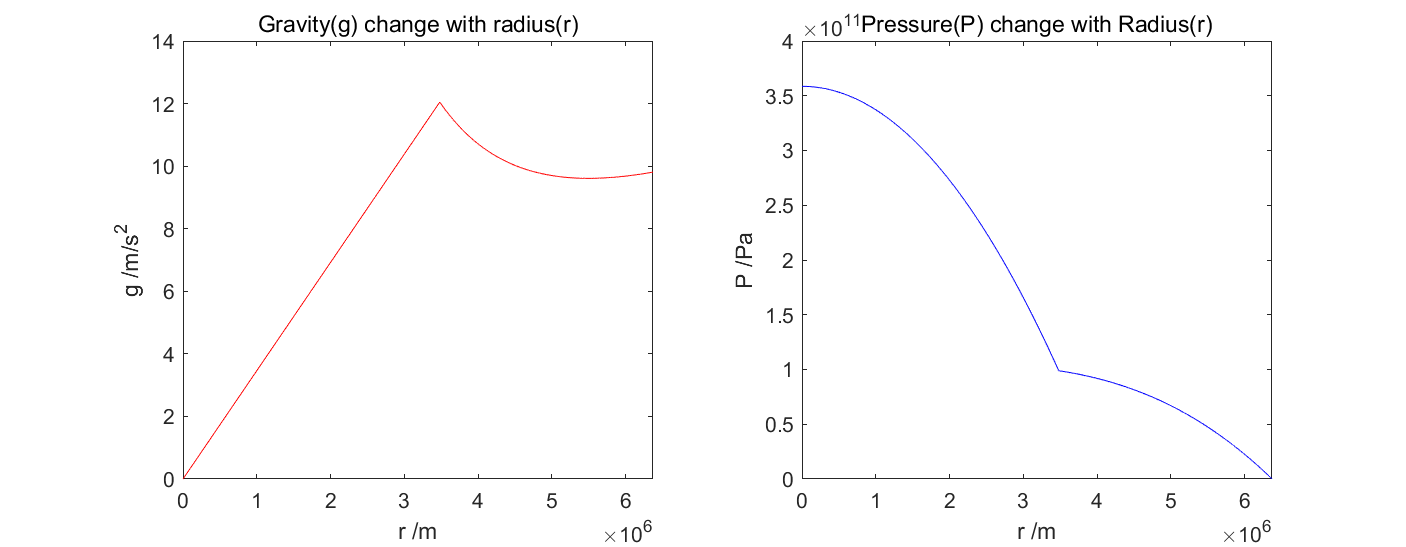
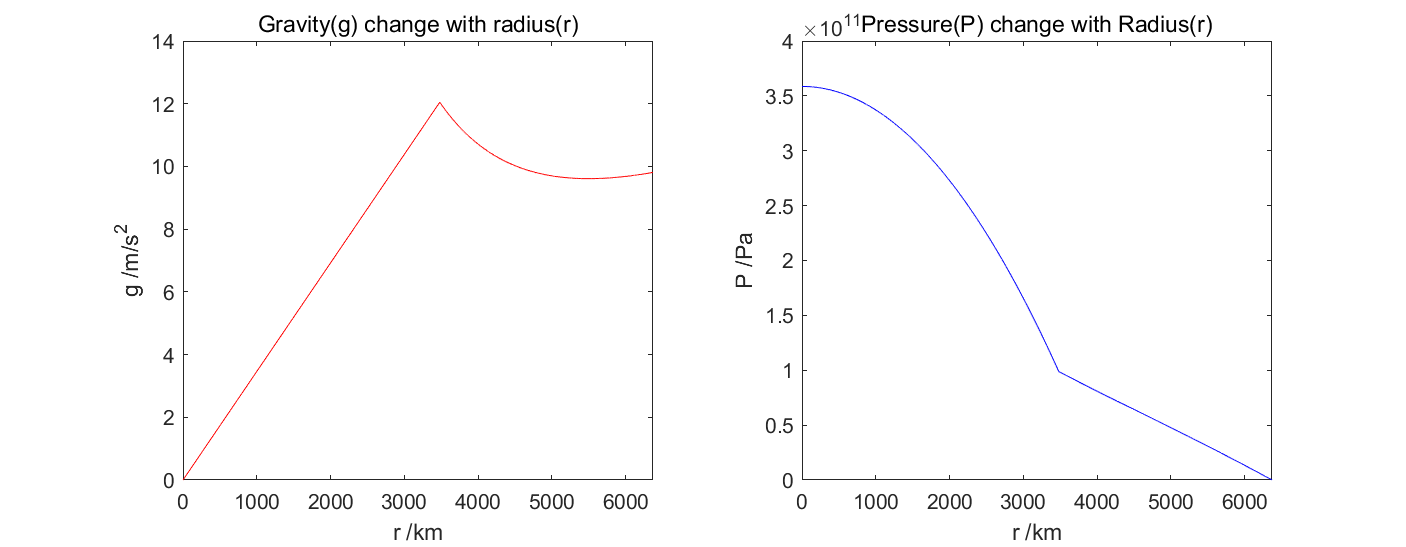
first commit for ESS5005

diff --git a/ESS5005_ComputationalSeismology/2D/Acou_FD_2D.m b/ESS5005_ComputationalSeismology/2D/Acou_FD_2D.m
@@ -1,0 +1,104 @@
+%% 2D Acoustic funtion by FD
+clear all
+%% parameter settings
+% grid paras
+WE = [-20000,20000];         % horizontal range left-right   /m
+Z =  20000;               % depth range  /m
+
+% physical property
+c_z = [334,1430];      % velocity km/s. 0.344--air; 1.430--water; 1.500 sea
+z_layer = 20;          % layer depth /km
+ 
+% iteration information
+dx = 10;                     % spatial step
+flag_eps = 1;               % spatial-time stability control number
+dt = flag_eps*dx/max(c_z);  % time step
+N_t = 9000;                   % the number of iteration times for time   
+N_x = (WE(2)- WE(1))/dx+1;  % the number of iteration times for X
+N_z = Z/dx + 1;
+
+% source parameters
+N_source = 2;
+time_s = [20,25;0,5];            % the occuring time of the source, start and end if needed
+amp_s =  [1;2];                 % the amplitude of the source
+loc_s = [-10000,0;10000,0];       % the source location (xs,zs) /km
+type_s = [3;3];                 % basic function of source. 1--delta function; 2--rampfunction; 3--unistep
+
+%% generate mesh
+
+tt = 0:dt:N_t*dt;
+XX = WE(1):dx:WE(2);
+ZZ = 0:dx:Z;
+
+%% generate source-time function and 
+
+for i =1 : N_source
+    s_t{i} =  source(time_s(i,:),amp_s(i),tt,type_s(i),i);
+    x_s_index(i) = find(XX == loc_s(i,1));
+    z_s_index(i) = find(ZZ == loc_s(i,2));
+end
+
+%% initialization for time and space
+
+% time
+P_bef = zeros(length(ZZ),length(XX));               % displacement field P(t-dt)
+P_now = zeros(length(ZZ),length(XX));               % displacement field P(t)
+for i = 1:N_source
+    P_now(z_s_index(i),x_s_index(i)) = double(s_t{i}(1));
+end
+P_after = zeros(length(ZZ),length(XX));             % displacement field P(t+dt)
+
+% % space
+% Ps_bef = zeros(length(ZZ),length(XX));               % displacement field P(x-dx,z-dz)
+% Ps_now = zeros(length(ZZ),length(XX));               % displacement field P(x,z)
+% for i = 1:N_source
+%     Ps_now(z_s_index,x_s_index) = double(s_t{i}(1));
+% end
+% Ps_after = zeros(length(ZZ),length(XX));             % displacement field P(x+dx,z+dz)
+
+%% iteration for each time and space
+P_total{1} = P_now;
+flag_max = max(max(P_now));
+flag_min = min(min(P_now));
+
+for nt = 1:N_t
+    % contribution of x direction
+    d2P = zeros(length(ZZ),length(XX));
+    for zz = 2:N_z-1
+        if ZZ(zz) <= z_layer
+            c = c_z(1);
+        else
+            c = c_z(2);
+        end
+        for xx =2:N_x-1
+            d2P_x = (P_now(zz,xx+1)-2*P_now(zz,xx)+P_now(zz,xx-1))/dx^(2);
+            d2P_z = (P_now(zz+1,xx)-2*P_now(zz,xx)+P_now(zz-1,xx))/dx^(2);
+            d2P(zz,xx) = ( d2P_z+d2P_x )*dt^(2)*c^(2);
+        end
+    end
+
+    % renew time,space contribution without source
+    P_after = 2*P_now-P_bef + d2P;
+
+    % add source influence
+    for i = 1:N_source
+        P_after(z_s_index(i),x_s_index(i)) = P_after(z_s_index(i),x_s_index(i)) + double(s_t{i}(nt));
+    end
+
+    % renew for iteration
+    P_bef =  P_now;
+    P_now = P_after;
+    P_total{nt+1} = P_now;
+
+    % renew max and min flag
+    if flag_min > min(min(P_now))
+        flag_min = min(min(P_now));
+    end
+    if flag_max < max(max(P_now))
+        flag_max = max(max(P_now));
+    end
+
+end
+
+%% plot
+GifPlot(tt,P_total,dt,XX,ZZ,flag_min,flag_max)

diff --git a/ESS5005_ComputationalSeismology/2D/source.m b/ESS5005_ComputationalSeismology/2D/source.m
@@ -1,0 +1,34 @@
+function [s] = source(time_s0,amp_s,time,type_s,number)
+    % This function SOURCE generate the source time function by given the source type
+    % , time, location and amlitude paras.
+    % 
+    % time_s: the occuring time of the source, start and end
+    % amp_s: the amplitude of the source
+    % type_s: 1--delta function; 2--rampfunction; 3--unistep
+
+    %% find closest t
+    loc_t_start = find(abs(time_s0(1)-time) == min(abs(time_s0(1)-time)) );
+    time_s(1) = time(loc_t_start);
+    loc_t_end = find(abs(time_s0(2)-time) == min(abs(time_s0(2)-time)) );
+    time_s(2) = time(loc_t_end);
+
+    %% basic function:
+    if type_s == 1
+        func = time==time_s(1); 
+    elseif type_s == 2
+        func = (time-time_s(1))/(time_s(2)-time_s(1)).*(time>=time_s(1) & time<=time_s(2)) ...
+            + (time>=time_s(1) & time>time_s(2));
+    elseif type_s == 3
+        func = time>=time_s(1) & time<=time_s(2);
+    end
+
+    %% source time function
+    s = amp_s.*func;
+    plot(time,s,'b');
+    xlabel('time /s')
+    ylabel('amplitude');
+    title('source time funtion')
+    fileformat = ['source_number',num2str(number),'.png'];
+    saveas(gcf,fileformat)
+    close all
+end

diff --git a/ESSS50031_EarthAndPlanet/Assignment01/Q3.m b/ESSS50031_EarthAndPlanet/Assignment01/Q3.m
@@ -1,4 +1,5 @@
-close  all
+close all
+clear all
 
 R1 = 3480000;
 R2 = 6371000;
@@ -25,27 +26,34 @@ Pcenter  = Pcmb + 2/3*G*pi*x(1)^2*R1^2;
 rho1 = x(1);
 rho2 = x(2);
 
-r = 0.1:1000:R2;
+r = 0.01:1000:R2;
 Mr = 4/3*rho1*pi*r.^3 .* (r<=R1) + (4/3*(rho1-rho2)*pi*R1^3+4/3*pi*rho2*r.^3).*(r>R1);
 gr = G.*Mr./r.^2;
 
 figure('Position',[10 100 900 350])
 subplot(1,2,1)
-plot(r,gr,'r')
+plot(r.*1e-3,gr,'r')
 title('Gravity(g) change with radius(r)')
-xlabel('r /m')
+xlabel('r /km')
 ylabel('g /m/s^2')
 
 
 %% plot P(r)
 Pcmb =  4\3*pi*G*(x(1)-x(2))*x(2)*R1^3*(1/R1-1/R2) + 2/3*pi*G*x(2)^2*(R2^2-R1^2);
-Pr= (4\3*pi*G*(x(1)-x(2))*x(2)*(r.^2-r.^3/R2) + 2/3*pi*G*x(2)^2*(R2^2-r.^2)) .*(r>R1) ...
-    +(Pcmb+2/3*G*pi*x(1)^2*(R1^2-r.^2)).*(r<=R1);
+
+Pr = zeros(length(r),1);
+for i=1:length(r)
+    if r(i)> R1
+        Pr(i) =  4\3*pi*G*(x(1)-x(2))*x(2)*(R1^3/r(i)-R1^3/R2) +2/3*pi*G*x(2)^2*(R2^2-r(i)^2);
+    else
+        Pr(i) =  Pcmb+2/3*G*pi*x(1)^2*(R1^2-r(i)^2);
+    end
+end
 
 subplot(1,2,2)
-plot(r,Pr,'b')
+plot(r.*1e-3,Pr,'b');
 title('Pressure(P) change with Radius(r)')
-xlabel('r /m')
+xlabel('r /km')
 ylabel('P /Pa')
 saveas(gcf,'plots_with_r.png')
 

diff --git a/ESS5005_ComputationalSeismology/2D/GifPlot.m b/ESS5005_ComputationalSeismology/2D/GifPlot.m
@@ -1,0 +1,30 @@
+function [] = GifPlot(tt,P_total,dt,X,Z,min,max)
+% GifPlot : plot .git for visualization
+    
+    [XX,ZZ] = meshgrid(X,Z);
+    
+    fig = figure;
+    for idx = 1:length(tt)
+        pcolor(XX',ZZ',double(P_total{idx})');
+        colorbar;
+        set(gca,'CLim',[min,max])
+        axis ij
+        title(['2D Acoustic wave field,  t = ' num2str(tt(idx)) ])
+        drawnow
+        frame = getframe(fig);
+        im{idx} = frame2im(frame);
+    end
+    close;
+
+    filename = 'Wavefield.gif'; % Specify the output file name
+    for idx = 1:length(tt)
+        [A,map] = rgb2ind(im{idx},256);
+        if idx == 1
+            imwrite(A,map,filename,'gif','LoopCount',Inf,'DelayTime',3);
+        else
+            imwrite(A,map,filename,'gif','WriteMode','append','DelayTime',dt);
+        end
+    end
+
+    
+end

diff --git a/ESSS50031_EarthAndPlanet/Assignment01/Q4.m b/ESSS50031_EarthAndPlanet/Assignment01/Q4.m
@@ -1,3 +1,5 @@
+clear all
 phi_c  = [43  32 16];
 phi  =deg2rad( dms2degrees(phi_c) );
-g = vpa(9.780327*( 1+0.0053024*sin(phi)^2-0.0000059*sin(2*phi)^2),8);
+g = vpa(9.780327*( 1+0.0053024*(sin(phi))^2-0.0000059*(sin(2*phi))^2),8);
+double(g)

diff --git a/ESSS50031_EarthAndPlanet/Assignment01/test_for_Pr.m b/ESSS50031_EarthAndPlanet/Assignment01/test_for_Pr.m
@@ -1,0 +1,13 @@
+A = 2.2710e+17;
+B=0.0024;
+R1 = 3480000;
+R2=6371000*2;
+r=R1:1000:R2;
+Pr1 = A./r-1./R2 ; 
+Pr2 = 0.0024*(R2^2-r.^2);
+Pr = Pr1 + Pr2;
+plot(r,Pr,'black');
+hold on
+plot(r,Pr1,'r');
+hold on
+plot(r,Pr2,'b');
